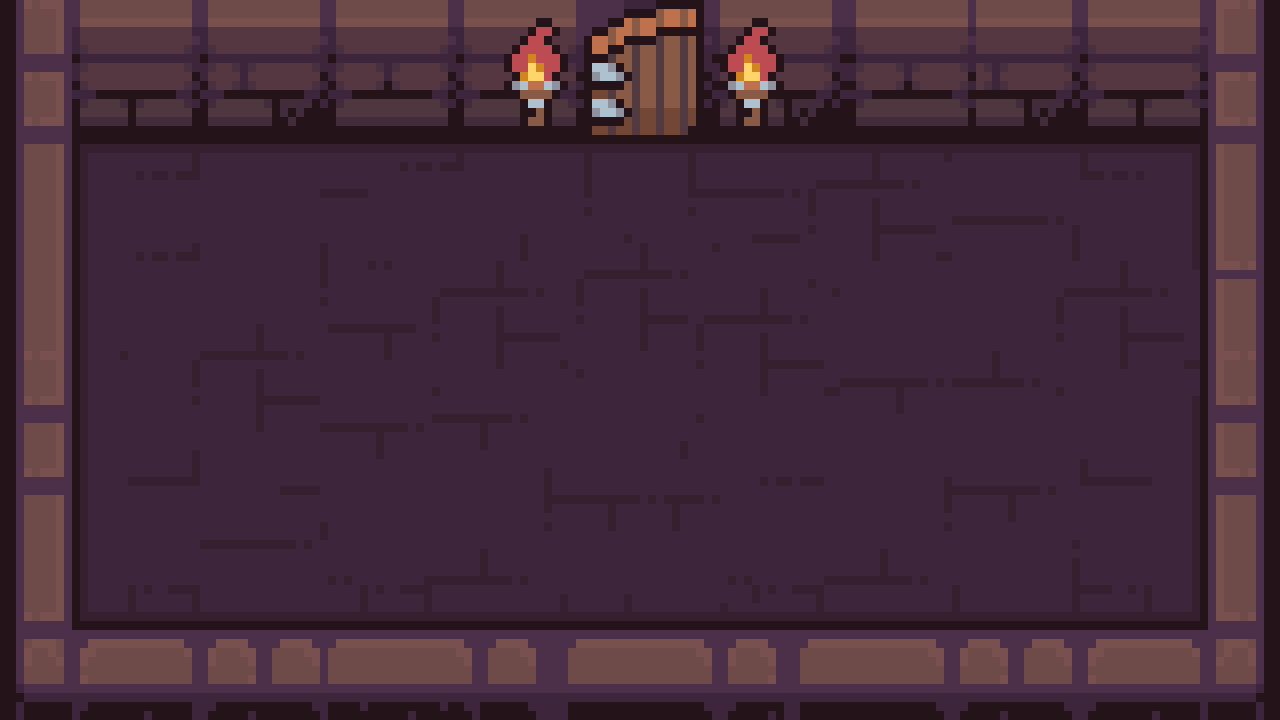
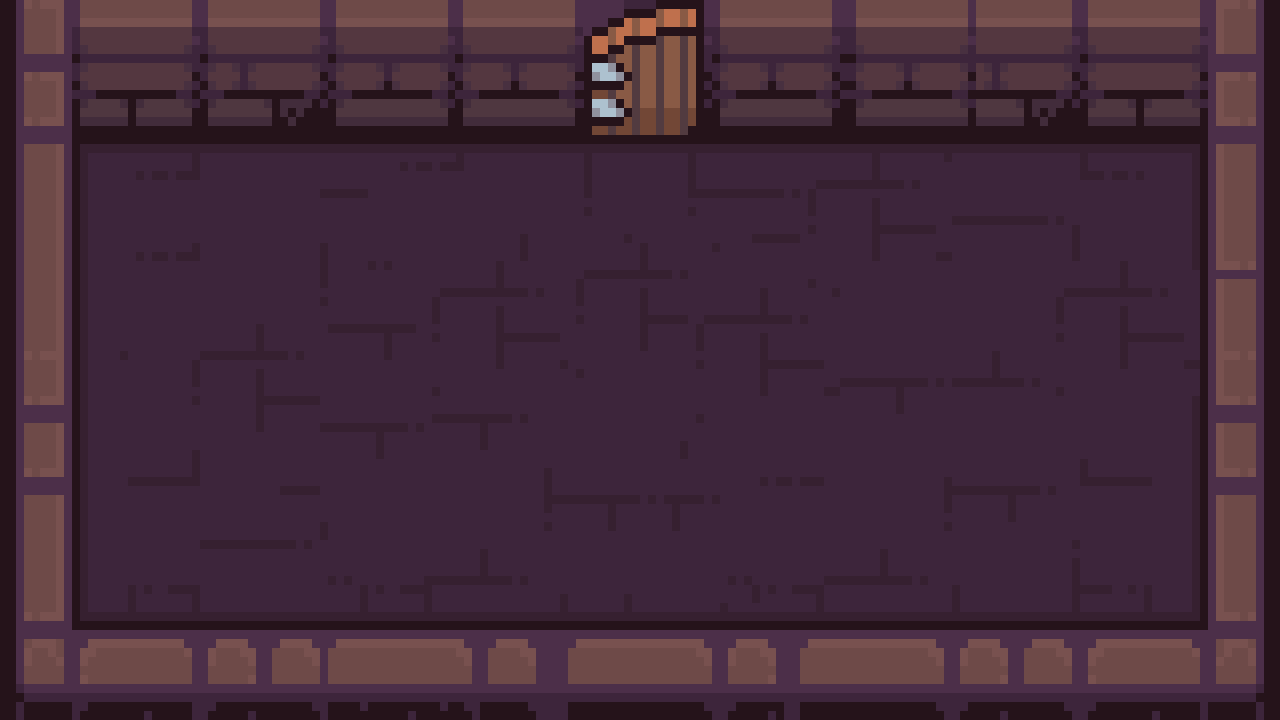
Torch, candy

Changed region(s): [[0.5625, 0.0306, 0.6562, 0.1833], [0.375, 0.0306, 0.4688, 0.1833]]

diff --git a/src/scripts/scenes/LevelScene.ts b/src/scripts/scenes/LevelScene.ts
@@ -1,12 +1,16 @@
-import Player from "../objects/player";
+import Player from '../objects/Player';
+import Item from '../objects/Pickup';
 
 export default class LevelScene extends Phaser.Scene {
-	cursors: Phaser.Types.Input.Keyboard.CursorKeys;
-	keyLeft: Phaser.Input.Keyboard.Key;
-	player: Player;
+	private cursors: Phaser.Types.Input.Keyboard.CursorKeys;
+	private keyLeft: Phaser.Input.Keyboard.Key;
+	private player: Player;
+	private items: Phaser.GameObjects.Group;
 
 	constructor() {
 		super({ key: 'LevelScene' });
+
+		// this.items = this.add.group({ classType: Item });
 	}
 
 	preload(): void {
@@ -14,10 +18,18 @@ export default class LevelScene extends Phaser.Scene {
 		this.load.image('pedestrian', 'assets/img/pedestrian.png');
 		this.load.image('sprite', 'assets/img/sprite.jpg');
 		this.load.image('thumb', 'assets/img/thumbs-up.png');
+		this.load.image('health', 'assets/img/candy.png');
 	}
 
 	create(): void {
 		const room1 = this.add.image(0, 0, 'room1').setOrigin(0, 0);
+
+		// this.items.add(new Item({
+		// 	scene: this,
+		// 	x: 200,
+		// 	y: 500,
+		// 	key: 'health'
+		// }));
 
 		this.player = new Player({
 			scene: this,
@@ -33,7 +45,11 @@ export default class LevelScene extends Phaser.Scene {
 	}
 
 	update(): void {
+		// this.items.forEach(item => {
+		// 	item.update();
+		// });
 		this.player.update();
+
 
 		this.game.getTime();
 	}

diff --git a/src/scripts/objects/Torch.ts b/src/scripts/objects/Torch.ts
@@ -1,4 +1,4 @@
-export default class Pickup extends Phaser.Physics.Arcade.Image {
+export default class Torch extends Phaser.Physics.Arcade.Image {
     constructor(params: any) {
         super(params.scene, params.x, params.y, params.key, params.frame);
         this.scene.add.existing(this);

diff --git a/src/scripts/objects/Enemy.ts b/src/scripts/objects/Enemy.ts
@@ -1,0 +1,6 @@
+export default class Enemy extends Phaser.Physics.Arcade.Image {
+    constructor(params: any) {
+        super(params.scene, params.x, params.y, params.key, params.frame);
+        this.scene.add.existing(this);
+    }
+}

diff --git a/src/scripts/objects/Boss.ts b/src/scripts/objects/Boss.ts
@@ -1,0 +1,6 @@
+// export default class Boss extends Enemy {
+//     constructor(params: any) {
+//         super(params.scene, params.x, params.y, params.key, params.frame);
+//         this.scene.add.existing(this);
+//     }
+// }

diff --git a/src/scripts/game.ts b/src/scripts/game.ts
@@ -25,7 +25,7 @@ const config: GameConfig = {
 	physics: {
 		default: 'arcade',
 		arcade: {
-			debug: false,
+			debug: true,
 			// gravity: { y: 400 }
 		}
 	}
